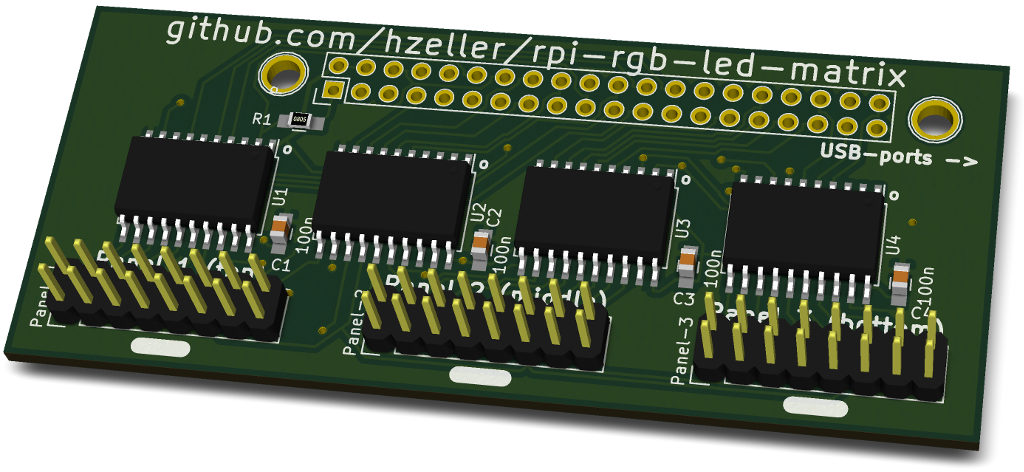
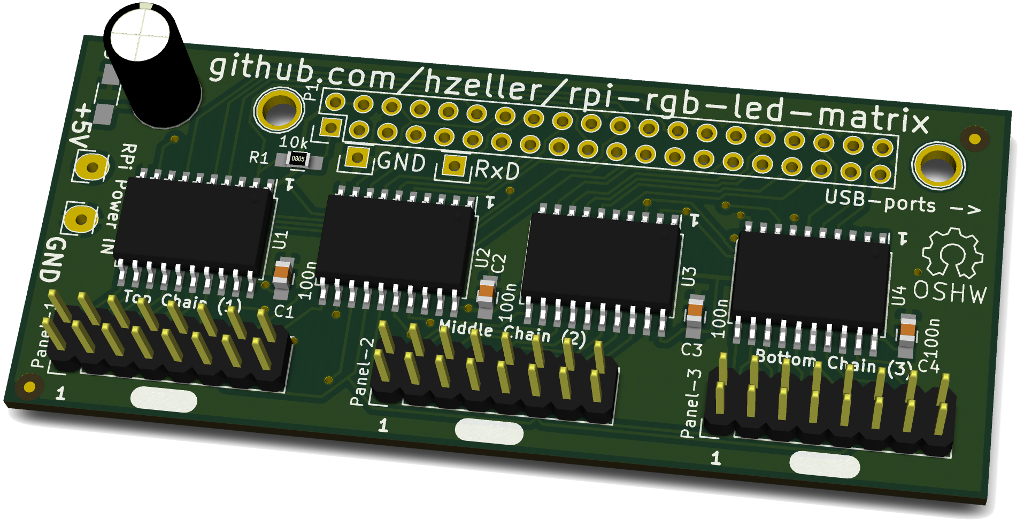
o Update README and rendering.

diff --git a/adapter/active-3/README.md b/adapter/active-3/README.md
@@ -6,14 +6,18 @@ Adapter PCB to support up to 3 panels
    * Uses HCT245 to level shift signals from 3.3V to 5V and shield
      the Raspberry Pi GPIOs from overloading.
    * Open source KiCAD PCB EDA format.
-   * (not very pretty layout, was just lazy and let the auto-router do it).
+   * Optional: Pads to power the Pi with 5V, including optional capacitor footprints.
+   * Connector for RxD input (literally the only GPIO pin left) in case you want to
+     make your panel controlled with a serial interface (3.3V logic level).
+   * (not very pretty layout, was just lazy and let the auto-router generate the first pass)
    * BOM:
-     - 4x 74HCT245 or 74AHCT245 in 20-SOIC, 7.5mm package.
+     - 4x 74HCT245 or 74AHCT245 in 20-SOIC, 7.5mm package which should make
+          it easy to hand-solder.
      - 4x 100nF ceramic capacitor (0805 package)
      - 1x 10kOhm resistor (0805 package)
      - 3x 16pin IDC (=2x8) male receptible to connect the panels.
      - 1x 40pin female connector to connect to the RPi.
-   * The FAB files are provided as [active3-rpi-hub75-adapter-fab.zip](./active3-rpi-hub75-adapter-fab.zip)
+   * The Gerber FAB files are provided as [active3-rpi-hub75-adapter-fab.zip](./active3-rpi-hub75-adapter-fab.zip)
 
 The board is also [shared on OSH Park][osh-active3] (not affiliated).
 
@@ -22,4 +26,4 @@ The board is also [shared on OSH Park][osh-active3] (not affiliated).
 
 [rendering]: ../../img/active3-pcb.png
 [real-world]: ../../img/three-parallel-panels-soic.jpg
-[osh-active3]: https://oshpark.com/shared_projects/vIwlNEFd
+[osh-active3]: https://oshpark.com/shared_projects/QIA9YHZH
